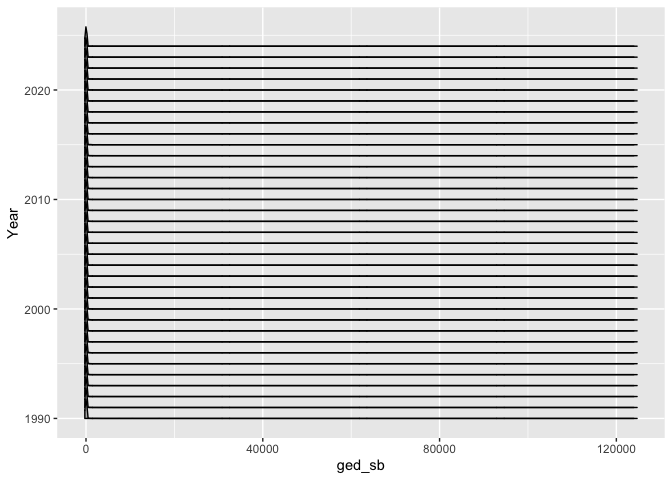
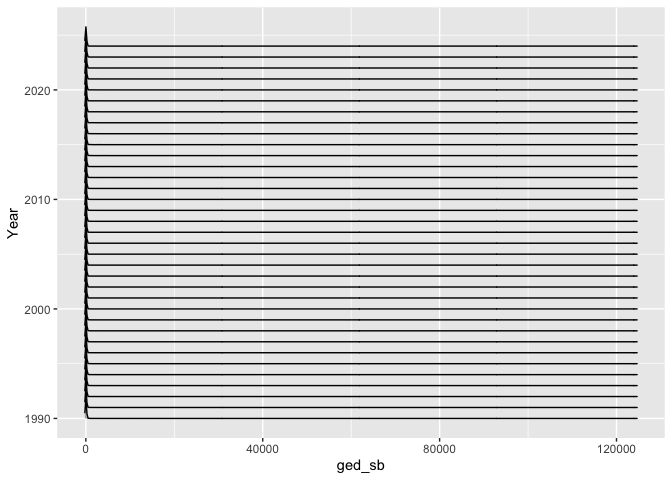
Updates to - Documentation / descriptions - Added static count comparison models - Corrected matching of the data in the merges - update df indexing uses to actual variables for portability.

Changed region(s): [[0.125, 0.0625, 0.9375, 0.875]]

diff --git a/Brandt-VIEWS2-Demo.md b/Brandt-VIEWS2-Demo.md
@@ -1,19 +1,25 @@
 VIEWS Data Setup and Modeling Demo
 ================
 Patrick T. Brandt
-March 18, 2025
+
+March 26, 2025
 
 - [Introduction](#introduction)
 - [Country-Month Data setup](#country-month-data-setup)
-  - [Basic data manip for
-    country-months](#basic-data-manip-for-country-months)
+  - [Basic data manipulation for
+    country-months](#basic-data-manipulation-for-country-months)
 - [Basic Time Series Plots of all the SB killings
   data](#basic-time-series-plots-of-all-the-sb-killings-data)
 - [Distributional summaries](#distributional-summaries)
   - [Fit Tweedie models](#fit-tweedie-models)
   - [Time series parameter summaries](#time-series-parameter-summaries)
 - [Simple prediction models](#simple-prediction-models)
+  - [Simple demo of the count model
+    comparisons](#simple-demo-of-the-count-model-comparisons)
+- [Scoring forecasts](#scoring-forecasts)
 - [PRIO-Grid Month (`pgm`) Data setup](#prio-grid-month-pgm-data-setup)
+  - [Analyses like above for some
+    `pgm`](#analyses-like-above-for-some-pgm)
 
 # Introduction
 
@@ -21,7 +27,7 @@ This demo shows how to read and process the initial data from VIEWS /
 UCDP. This is based on the data from [VIEWS](https://viewsforecast.org).
 Here the files are downloaded from the Dropbox location for the data.
 Alternative version would be direct calls to the
-[API](https://github.com/prio-data/views_api/wiki/Available-datasets)
+[API](https://github.com/prio-data/views_api/wiki/Available-datasets).
 
 # Country-Month Data setup
 
@@ -37,7 +43,7 @@ observations that are observed.
 
 *If you run your own version of this, you will likely need to change the
 paths to the input files.* You can get the codebooks and input files
-[here](https://www.dropbox.com/sh/yxk5w04p2e1xtqk/AACU2k5EUOuEeMq2kZ3gpZZwa?dl=0).
+[here](https://www.dropbox.com/scl/fo/rurpcmtpcquni5onoyuus/AI6p3CLXEGrRVak2wEsTgAM/codebooks?rlkey=v1o4va647qrwc4la7m8i7cedk&subfolder_nav_tracking=1&st=lnki2qvf&dl=0).
 
 ``` r
 # CM level data: features and outcomes
@@ -90,28 +96,29 @@ month_ids <- read.csv("month_ids/month_ids.csv", header = TRUE)
 (Note the above will also have downloaded the `pgm` items for the months
 and the countries, so this is available for later processing.)
 
-## Basic data manip for country-months
+## Basic data manipulation for country-months
 
 Here we see how to align the dates and country codes so that the
 identifiers can always be put back into the data for case
-identifications.
+identifications. This is a set of `merge` commands using base R.
 
 ``` r
 # Subset out the main (conflict) variables we want
-df1 <- subset(cm, select = c(month_id, country_id, gleditsch_ward,
+df1 <- subset(cm, select = c(month_id, country_id,
+                             gleditsch_ward,
                              ged_sb, ged_ns, ged_os, 
                              acled_sb, acled_sb_count, acled_os))
 
 # Merge on the country label data
 dfs <- merge(df1, countries, 
-             by.x = "gleditsch_ward", by.y="gwcode")
+             by.x = "country_id", by.y="id")
 
 # Merge on the time periods info
 dfs <- merge(dfs, month_ids[,2:4],
              by.x = "month_id", by.y="month_id")
 
 # Clean up
-rm(df1)
+rm(df1,cm)
 ```
 
 # Basic Time Series Plots of all the SB killings data
@@ -122,14 +129,14 @@ This summarizes and plots the GED state-based (SB) deaths series.
 #### Simple plots as checks ####
 
 # Simple summary plot to see that we have things correct...
-ms <- sort(unique(cm$month_id))
+ms <- sort(unique(dfs$month_id))
 
 roll.ged.sb <- matrix(NA, nrow=length(ms), ncol=3)
 sbdata <- vector(mode="list", length=length(ms))
 
 for(i in 1: length(ms))
 {
-  sb <- cm[cm$month_id==ms[i],4] 
+  sb <- dfs[dfs$month_id==ms[i],]$ged_sb 
   sbdata[[i]] <- as.vector(unlist(sb))
   roll.ged.sb[i,] <- c(ms[i], mean(sbdata[[i]]), sd(sbdata[[i]]))
 }
@@ -175,17 +182,24 @@ library(ggplot2)
 library(ggridges)
 
 # Plot the distributions by year
-ggplot(dfs, aes(x = ged_sb, y = Year, group = Year)) + geom_density_ridges2()
+ggplot(dfs, aes(x = ged_sb, y = Year, group = Year)) +
+  geom_density_ridges(panel_scaling = TRUE)
 ```
 
-    ## Picking joint bandwidth of 87.8
+    ## Picking joint bandwidth of 76.2
 
 <img src="Brandt-VIEWS2-Demo_files/figure-gfm/distrosums-1.png" style="display: block; margin: auto;" />
 
+(This last plot needs some work on its aesthetics. The idea is to show
+that the modes are the same, but the tails vary widely.)
+
 ## Fit Tweedie models
 
+**Describe Tweedie and EDM models here**.
+
 This is a stability check on the data: can we even really generalize an
-ED like target density?
+ED like target density? Do the parameters of the Tweedie fitted model to
+the data change or stay the same over time (months)?
 
 ``` r
 library(tweedie)
@@ -258,7 +272,7 @@ system.time(all.tw <- clusterApplyLB(cl, sbdata, oneperiod.fit))
 ```
 
     ##    user  system elapsed 
-    ##   0.101   0.040  53.600
+    ##   0.099   0.038  53.390
 
 ``` r
 stopCluster(cl)
@@ -302,8 +316,8 @@ colnames(twp.convert) <- c("poisson.lambda",
                            "p0", "gamma.mean", "gamma.phi")
 
 # Compute the observed zeros proportion by month and plot against the predictions:
-freq.zeros <- aggregate(cm$ged_sb==0,
-                        by=list(cm$month_id), mean)
+freq.zeros <- aggregate(dfs$ged_sb==0,
+                        by=list(dfs$month_id), mean)
 
 # Poisson predictions make no sense
 # range(dpois(0, lambda=roll.ged.sb[,1]))
@@ -322,8 +336,152 @@ legend(2013, 0.925,
 
 # Simple prediction models
 
+This section shows how to set up some simple baseline prediction models
+for each country-month in the data.
+
 ### Basic count regressions
+
+This section sets up a series of count regression models. It assumes you
+split the data into training-test splits and fit the following models:
+
+- P = Poisson
+- NB = Negbin
+- ZIP = ZI Poisson
+- ZINB = ZI Negbin
+- TW = Tweedie
+
+This is all done via the `count.cf` function defined below. The result
+is a set of `N` simulated draws from the forecast density for each model
+and outcome to be predicted in the test data.
+
+``` r
+# Load needed libraries
+library(statmod)
+library(tweedie)
+library(MASS)
+library(pscl)
+library(zoo)
+
+set.seed(145)
+
+
+# count.cf -- fits a single count model to a series and validates it
+# against a training / test setup with forecast metrics
+#
+# Fits each count regression model on train-test data for
+# P = Poisson 
+# NB = Negbin
+# ZIP = ZI Poisson
+# ZINB = ZI Negbin
+# TW = Tweedie 
+#
+# After MLE fits, generates and returns N draws from the prediction
+# density for each of these models
+#
+
+count.cf <- function(train, test, xi.vec = seq(1.1, 1.75, by=0.025), 
+                     N = 1000)
+{
+  # Fit models
+  p <- glm(y ~ geo, family = poisson, data=train)
+  nb <- glm.nb(y ~ geo, data=train)
+  zip <- zeroinfl(y ~ geo, data=train, dist="poisson", model=FALSE, y = FALSE)
+  zinb <- zeroinfl(y ~ geo, data=train, dist="negbin", model=FALSE, y = FALSE)
+  #  zgeom <- zeroinfl(y ~ 1, data=train, dist="geometric", model=FALSE, y = FALSE)
+  
+  cat("Fitting Tweedie model grid for xi:\n")  
+  param.tw <- tweedie.profile(y ~ geo, xi.vec=xi.vec, 
+                              data = train,
+                              do.plot=FALSE,
+                              control=list(maxit=50),
+                              method="series", verbose=FALSE)
+  tw <- glm(y ~ geo, data = train,
+            family=tweedie(var.power=param.tw$xi.max, link.power=0),
+            control=list(maxit=50))
+  
+  # Predict forecasts for test periods
+  n <- nrow(test)
+  p.p <- predict(p, newdata=test, type="response")
+  p.nb <- predict(nb, newdata=test, type="response")  
+  p.zip <- predict(zip, newdata=test, type="response")
+  p.zinb <- predict(zinb, newdata=test, type="response")
+  #  p.zgeom <- predict(zgeom, newdata=test, type="response")
+  p.tw <- predict(tw, newdata=test, type = "response")
+  
+  # Now simulate the forecasts for each test period
+  cat("Sampling forecast densities")
+  p.sample <- t(sapply(1:n, function(i) {rpois(N, lambda=p.p[i])}))  
+  cat(" .")
+  nb.sample <- t(sapply(1:n, function(i) {rnbinom(N, size=nb$theta, mu=p.nb[i])}))
+  cat(" .")
+  zip.sample <- t(sapply(1:n, function(i) {rpois(N, lambda=p.zip[i])}))
+  cat(" .")
+  zinb.sample <- t(sapply(1:n, function(i) {rnbinom(N, size=zinb$theta, mu=p.zinb[i])}))  
+  cat(" .\n")
+  tw.sample <- t(sapply(1:n, function(i) {rtweedie(N, xi=param.tw$xi.max,
+                                                   mu=p.tw[i], phi=1) }))
+  
+  # Some cleanups
+  rm(p,nb,zip,zinb,tw,
+     p.p,p.nb,p.zip,p.zinb,p.tw)
+  
+  return(list(P = p.sample,
+              NB = nb.sample,
+              ZIP = zip.sample,
+              ZINB = zinb.sample,
+              TW = tw.sample))
+}
+```
+
+## Simple demo of the count model comparisons
+
+``` r
+# Define a DV as a simple variable and a factor for the countries
+dfs$y <- dfs$ged_sb
+dfs$geo <- as.factor(dfs$country_id)
+
+# Splits and subsets
+train <- dfs[dfs$Year>2020 & dfs$Year < 2024,]
+test <- dfs[dfs$Year>2023,]
+
+# Now fit models over the subsets
+system.time(count.out <- count.cf(train, test, N=1000))
+```
+
+    ## Fitting Tweedie model grid for xi:
+    ## 1.1 1.125 1.15 1.175 1.2 1.225 1.25 1.275 1.3 1.325 1.35 1.375 1.4 1.425 1.45 1.475 1.5 1.525 1.55 1.575 1.6 1.625 1.65 1.675 1.7 1.725 1.75 
+    ## ...........................Done.
+    ## Sampling forecast densities . . . .
+
+    ##    user  system elapsed 
+    ## 159.044   4.532 163.593
+
+``` r
+library(scoringutils)
+
+# Get the mean CRPS values across the country-year-draws
+check.crps <- lapply(lapply(count.out, 
+                                  crps_sample, 
+                                  observed = test$y), mean)
+
+# Show the CRPS for the test data
+print(unlist(check.crps), digits = 3)
+```
+
+    ##    P   NB  ZIP ZINB   TW 
+    ## 73.5 31.2 73.4 36.4 61.3
 
 ### Count regressions with GAM / splines
 
+This section demonstrates the approach taken in Brandt (2024). Here an
+illusration of a basic model with GAM / GLMM components are illustrated
+and then compared to the earlier section’s analyses.
+
+# Scoring forecasts
+
+Here’s how one can compute scoring rules to rank the forecasts from each
+of the models. This is akin to Brandt (n.d.).
+
 # PRIO-Grid Month (`pgm`) Data setup
+
+## Analyses like above for some `pgm`

diff --git a/README.md b/README.md
@@ -2,11 +2,13 @@
 
 *Patrick T. Brandt*
 
-Professor of Political Science // University of Texas, Dallas
+Professor of Political Science 
 
-[Getting Started with the VIEWS data tutorial](https://github.com/PTB-OEDA/VIEWS-Startup/blob/main/Brandt-VIEWS2-Demo.md)
+University of Texas, Dallas
 
 This is a simple demo for getting started with the VIEWS data in `R`.  
+
+[Getting Started with the VIEWS data tutorial](https://github.com/PTB-OEDA/VIEWS-Startup/blob/main/Brandt-VIEWS2-Demo.md)
 
 It lets you do things like
 
@@ -14,5 +16,18 @@ It lets you do things like
 2. Setup the data
 3. Make some basic time series and distribution plots.
 4. Evaluates parametric density changes in the data using Tweedie models.
+5. Generate some forecasts over a training set.
+6. Compare the forecasts from the training set model to actual data.
+
+
+
+
+Other relevant documents to understand the data are here:
+
+[VIEWS Data Codebooks Link](https://www.dropbox.com/scl/fo/rurpcmtpcquni5onoyuus/AI6p3CLXEGrRVak2wEsTgAM/codebooks?rlkey=v1o4va647qrwc4la7m8i7cedk&subfolder_nav_tracking=1&st=lnki2qvf&dl=0)
+
+[VIEWS `cm` country-month data codebook](https://www.dropbox.com/scl/fo/rurpcmtpcquni5onoyuus/AI6p3CLXEGrRVak2wEsTgAM/codebooks?preview=cm_features_competition.pdf&rlkey=v1o4va647qrwc4la7m8i7cedk&subfolder_nav_tracking=1&st=3lzkrbnw&dl=0)
+
+[VIEWS `pgm` PRIO grid-month data codebook](https://www.dropbox.com/scl/fo/rurpcmtpcquni5onoyuus/AI6p3CLXEGrRVak2wEsTgAM/codebooks?preview=pgm_features_competition.pdf&rlkey=v1o4va647qrwc4la7m8i7cedk&subfolder_nav_tracking=1&st=5pbwlmhj&dl=0)
 
 
